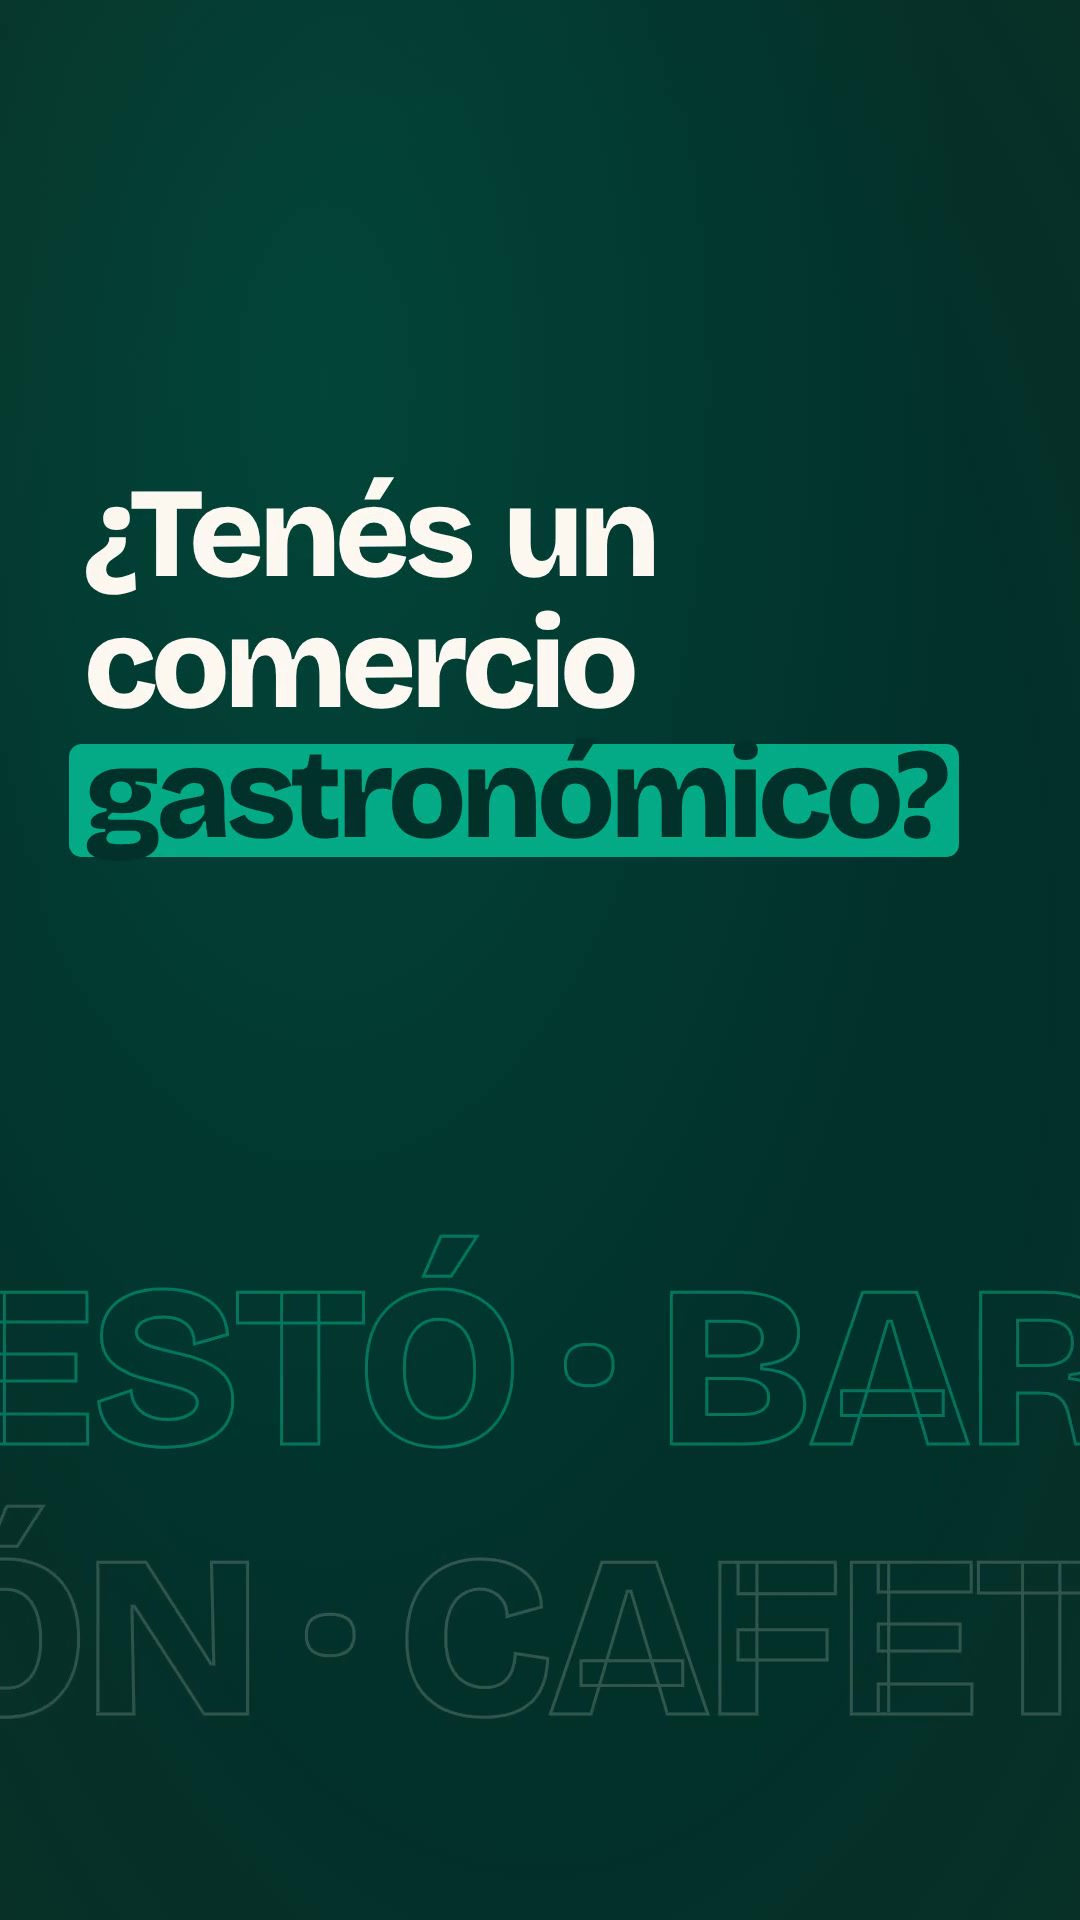
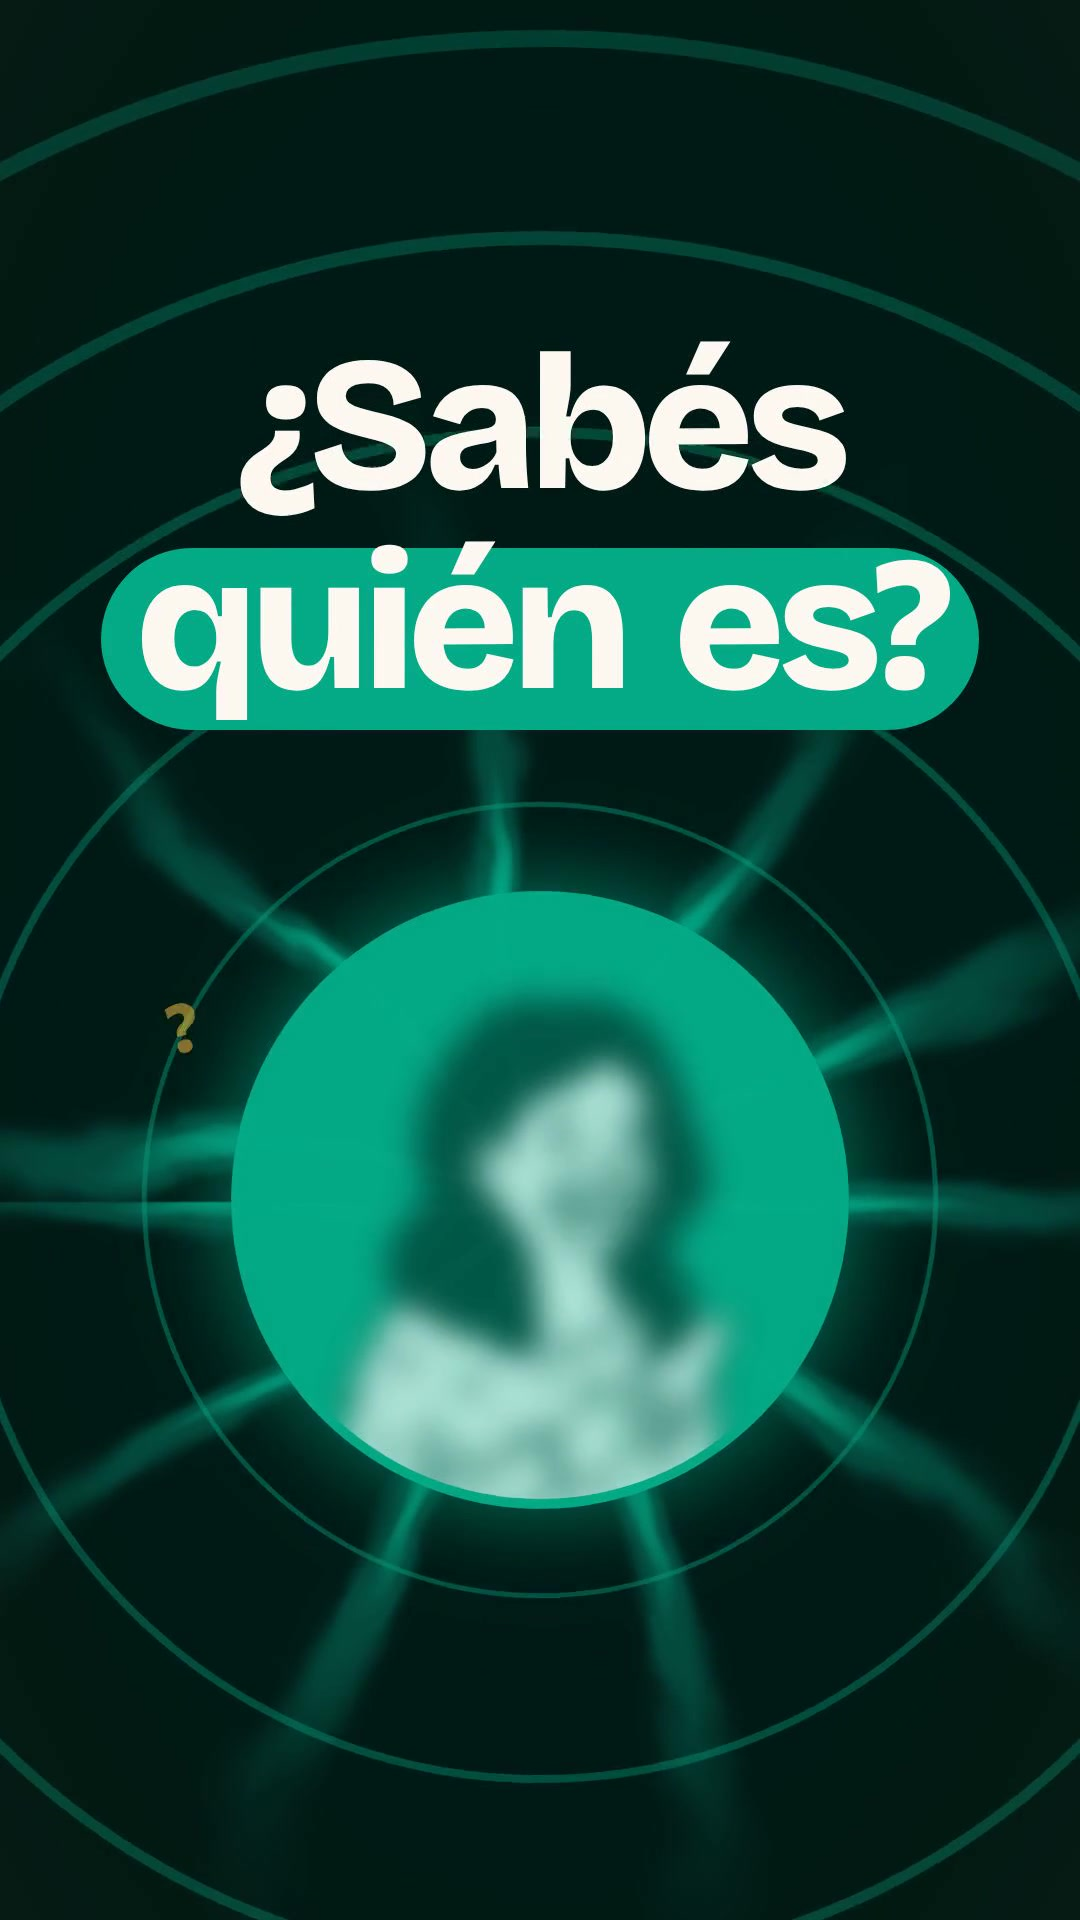
Reel v14: guion y portada
Claude-Session: https://claude.ai/code/session_017yVKKcbRPT9h4xZHWHKRnu

diff --git a/docs/video/guion.md b/docs/video/guion.md
@@ -1,27 +1,28 @@
-# Mejores Amigos — Guion del reel (v13, estilo brag)
+# Mejores Amigos — Guion del reel (v14)
 
-**Formato:** vertical 1080×1920 · 30 fps · **~41 s** (v12: 83 s)
-**Dirección de arte** (tomada de latent-spaces/brag): campos de color plano (verde oscuro / menta / crema) que cambian sobre el pulso, tipografía gigante, una palabra clave por pantalla dentro de un bloque que se pinta, etiquetas monoespaciadas (JetBrains Mono), palabras enormes pasando de fondo, texto que se tipea, cortes secos con un barrido de 6 cuadros. Pocas palabras por pantalla: se lee aunque sea corto.
-**Música:** `cancion.mp3` desde 3,59 s (2 compases antes de la subida), fundido final de 2 s. Efectos de Kenney (CC0).
+**Formato:** vertical 1080×1920 · 30 fps · **~54 s**
+**Dirección de arte:** la de brag (campos de color plano, tipografía gigante, palabra clave en bloque con reflejo de luz, etiquetas monoespaciadas, cortes sobre el pulso) + las animaciones que funcionaban de versiones anteriores + luces: rayos "God Rays" (21st.dev / Paper Shaders, Apache-2.0), brillos, luces de película.
+**Control de legibilidad:** `node scripts/check-legibility.mjs out/mejores-amigos-reel.mp4` lee cada pantalla con Tesseract (OCR) y mide cuánto queda la frase completa en pantalla contra la regla de ~0,3 s por palabra.
 
-| Tiempo | Pantalla |
+| Pantalla | Qué se ve |
 |---|---|
-| 0–1,9 s | **¿Tenés un comercio gastronómico?** — detrás pasan RESTÓ · BAR · CAFÉ · PARRILLA… |
-| 1,9–4,9 s | **Un cliente vino 12 veces este año.** |
-| 4,9–6,5 s | **¿Sabés quién es?** |
-| 6,5–11 s | Subida: **Con [Mejores Amigos], sí.** → *Un nuevo sistema de fidelización de clientes para restaurantes.* |
-| 11–13,2 s | PASO 01 · **Escanea el QR.** (el QR se arma y se escanea) |
-| 13,2–15,5 s | PASO 02 · **Suma estrellitas.** (estrellita 3D + tarjeta de 5 que se llena) |
-| 15,5–17,3 s | PASO 03 · **Desbloquea premios.** (cupón: ¡Primer premio! Postre sin cargo) |
-| 17,3–19 s | **¿Y tu comercio qué gana?** — detrás pasan MÁS VISITAS · MÁS CLIENTES · MÁS VENTAS |
-| 19–20,8 s | BENEFICIO 01 · **Conocés a tus clientes.** (Nuevos 63 · Frecuentes 148 · En riesgo 37) |
-| 20,8–22,2 s | BENEFICIO 02 · **¿Martes flojo?** |
-| 22,2–24,8 s | **Doble estrellita los martes.** (barras 3D: el martes sube +55%) |
-| 24,8–26,6 s | BENEFICIO 03 · **La IA te sugiere el mensaje.** |
-| 26,6–30,6 s | Se tipea: *¡Hola, Juli! Se viene tu cumple: si venís con 4 amigos, tu plato va por nuestra cuenta.* → Aprobar y enviar → ✓ Enviado |
-| 30,6–32,4 s | BENEFICIO 04 · **Tus clientes vuelven.** |
-| 32,4–35,2 s | **Más frecuencia. Más clientes. Más ventas.** (una por pulso) |
-| 35,2–41,2 s | Logo · *Convertí a tus clientes en mejores amigos.* · **Lo instalamos en tu restó** · 2254447706 · @luz.sur.arg · cinta SIN APPS ✦ SIN TARJETAS ✦ SOLO WHATSAPP |
+| ¿Tenés un comercio gastronómico? | rayos de luz desde arriba + brillos |
+| Un cliente vino 12 veces este año. | campo menta |
+| ¿Sabés quién es? | anillos que se abren, persona borrosa en el círculo iluminado, signos de pregunta, rayos detrás |
+| Con Mejores Amigos, sí. → Un nuevo sistema de fidelización de clientes para restaurantes. | subida de la canción |
+| El cliente escanea el QR en la mesa. | la señora escaneando + estrellita 3D "+1 estrellita" |
+| En cada visita, suma estrellitas. | estrellita 3D + tarjeta de 5 |
+| Desbloquea premios. | celular: se llenan las estrellitas, lluvia de estrellas, la tarjeta se da vuelta: ¡Primer premio! |
+| ¿Y tu comercio qué gana? | |
+| Conocés a tus clientes. | Nuevos · Frecuentes · En riesgo |
+| ¿El sistema detectó que va poca gente los martes? | |
+| Doble estrellita los martes. | barras 3D, el martes +55% |
+| La IA te sugiere el mensaje. | |
+| (mensaje tipeado) → Aprobar y enviar → Enviado | |
+| Le llega por WhatsApp. | celular bloqueado 20:41 + notificación de vidrio |
+| Tus clientes vuelven. | |
+| Más frecuencia. Más clientes. Más ventas. | |
+| Cierre | logo, "Convertí a tus clientes en mejores amigos.", "Lo instalamos en tu restó", contacto, cinta |
 
 ---
 
